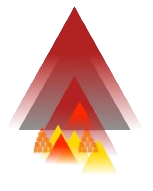
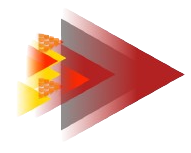
changed iamge direction

diff --git a/shooter.py b/shooter.py
@@ -6,7 +6,9 @@ class Shooter(pygame.sprite.Sprite):
 
     def __init__(self, x, y):
         pygame.sprite.Sprite.__init__(self)
-        self.image_original = pygame.image.load('Stop moving or slow speed_croped.png')
+        self.image_original = pygame.image.load('High speed_cropped.png')
+        #rotate iamge to left
+
         self.image = self.image_original
         self.rect = self.image.get_rect()
         self.rect.center = (x, y)
